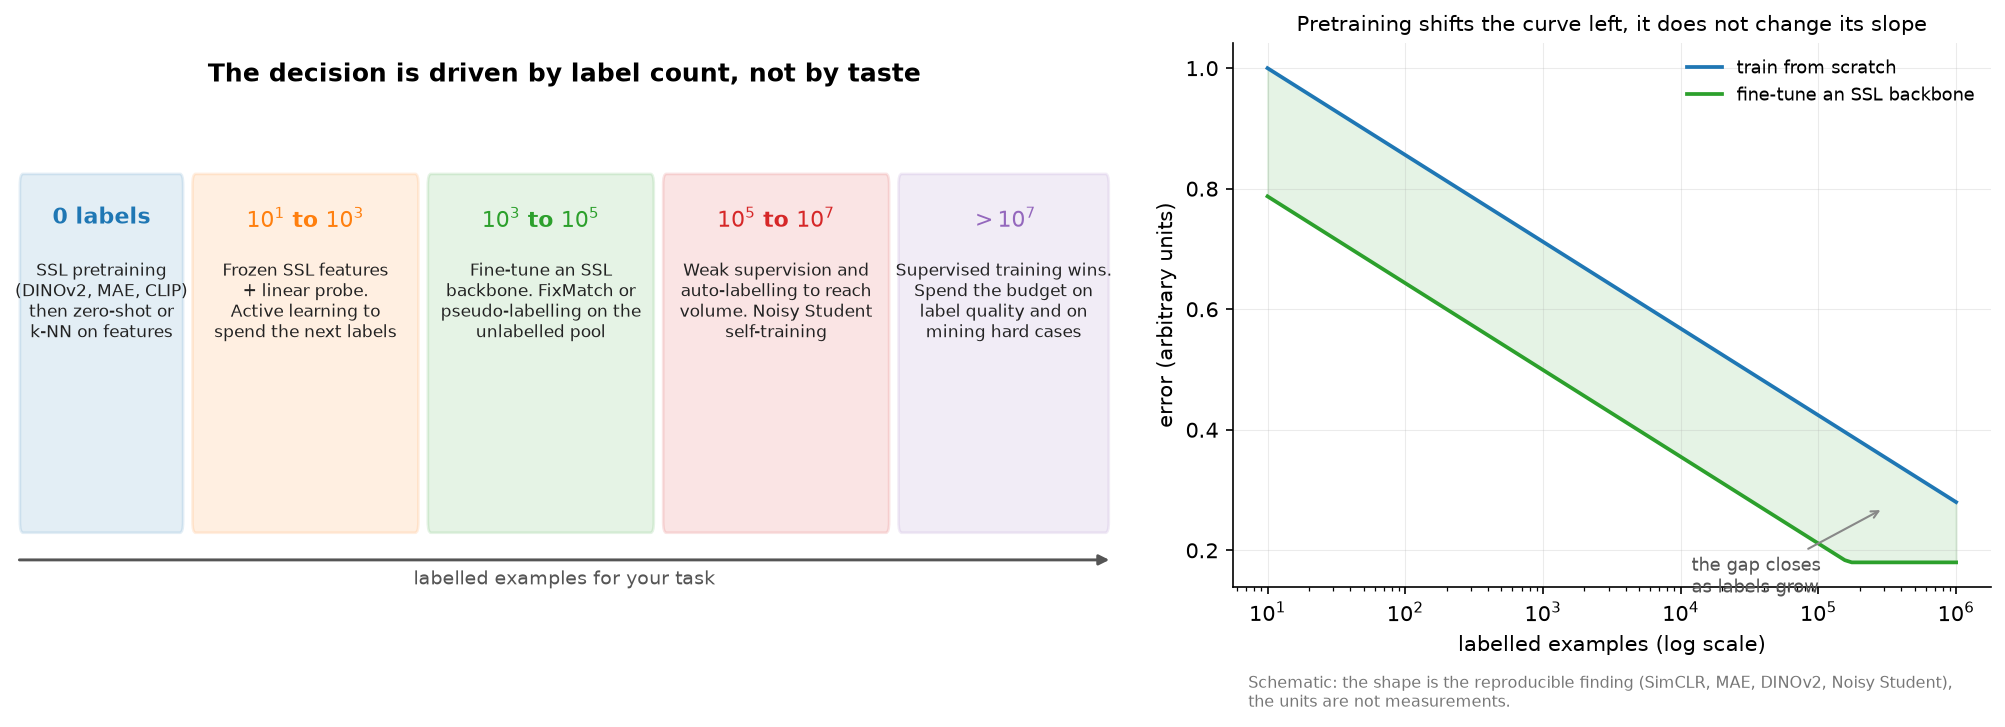
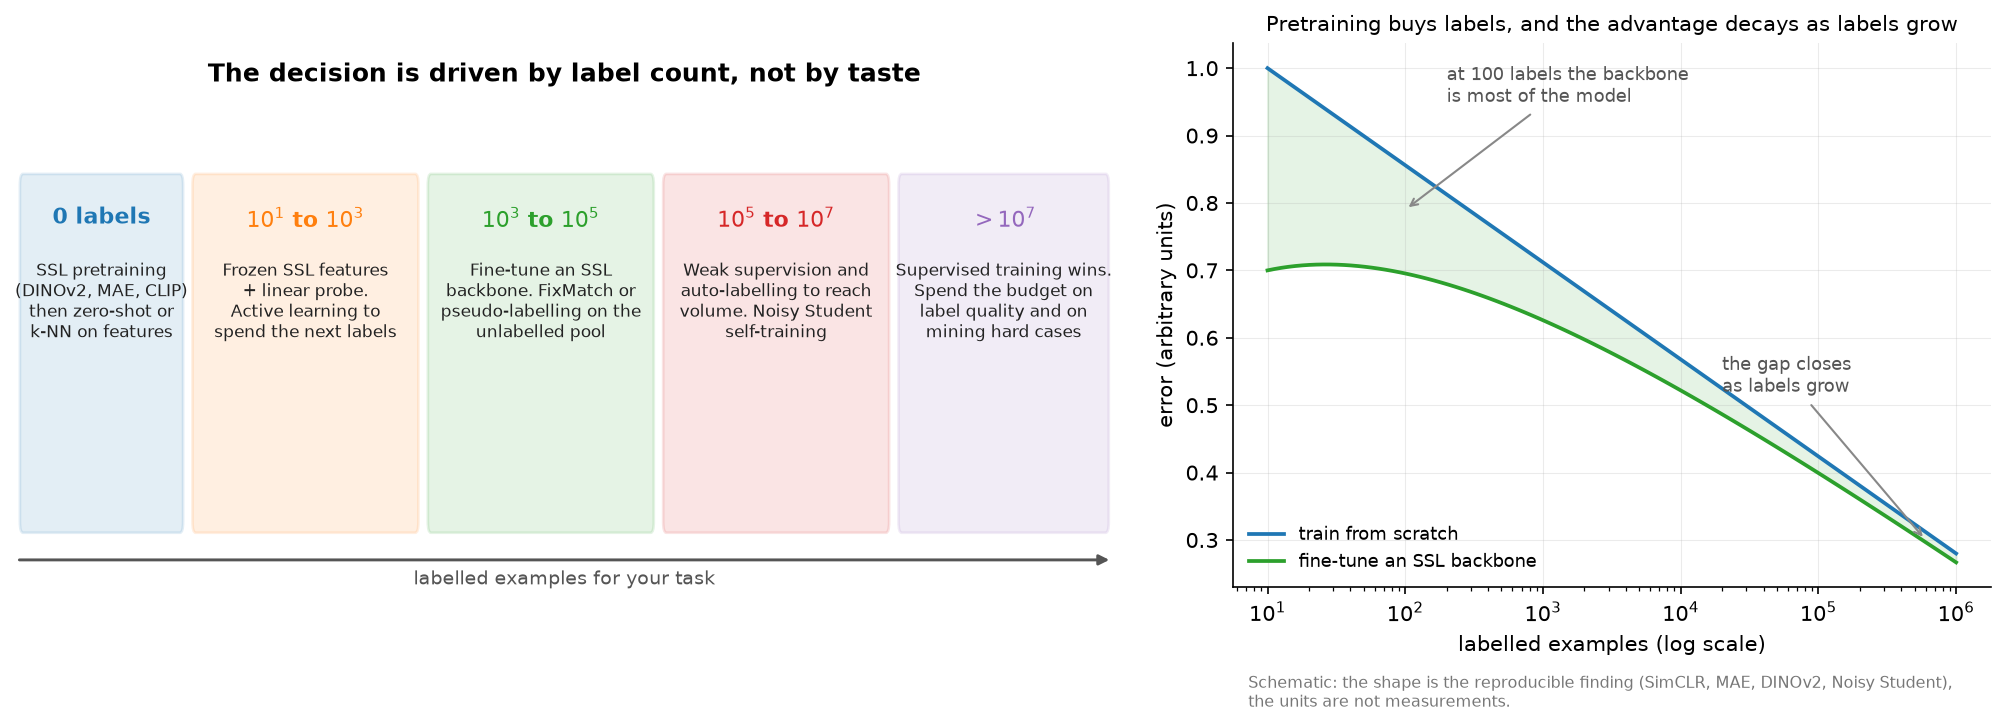
Add Part XVII ML system design, including novel-object 3D detection
Fifteen chapters with the Hello-Interview mock framing, per-decision interview
scripts, and the flagship crosswalk chapter built from the reader's own research.

Claude-Session: https://claude.ai/code/session_015H27xcFqfnuEV6DfXzrQek

diff --git a/figures/part10_label_budget.py b/figures/part10_label_budget.py
@@ -45,17 +45,20 @@ def main() -> None:
 
     # right panel: the shape of the curve everyone is trying to move
     n = np.logspace(1, 6, 100)
-    sup = 1.0 - 0.72 * (np.log10(n) - 1) / 5
-    ssl = 1.0 - 0.72 * (np.log10(n * 30) - 1) / 5
-    ssl = np.clip(ssl, 0.18, 1.0)
+    sup = 1.0 - 0.72 * (np.log10(n) - 1) / 5          # error falls with log(labels)
+    gap = 0.30 * np.exp(-(np.log10(n) - 1) / 1.6)     # the pretraining advantage decays with labels
+    ssl = sup - gap
     ax2.plot(n, sup, color=colors[0], linewidth=1.8, label="train from scratch")
     ax2.plot(n, ssl, color=colors[2], linewidth=1.8, label="fine-tune an SSL backbone")
     ax2.fill_between(n, ssl, sup, color=colors[2], alpha=0.12)
     ax2.set_xscale("log")
     ax2.set_xlabel("labelled examples (log scale)")
     ax2.set_ylabel("error (arbitrary units)")
-    ax2.set_title("Pretraining shifts the curve left, it does not change its slope", fontsize=10)
-    ax2.annotate("the gap closes\nas labels grow", xy=(3e5, 0.27), xytext=(1.2e4, 0.13),
+    ax2.set_title("Pretraining buys labels, and the advantage decays as labels grow", fontsize=10)
+    ax2.annotate("at 100 labels the backbone\nis most of the model", xy=(1e2, 0.79), xytext=(2e2, 0.95),
+                 fontsize=8.5, color="#555555",
+                 arrowprops=dict(arrowstyle="->", color="#888888", linewidth=1.0))
+    ax2.annotate("the gap closes\nas labels grow", xy=(6e5, 0.30), xytext=(2e4, 0.52),
                  fontsize=8.5, color="#555555",
                  arrowprops=dict(arrowstyle="->", color="#888888", linewidth=1.0))
     ax2.legend(fontsize=8.5, frameon=False)

diff --git a/citations-todo/part18-company-deep-dives.md b/citations-todo/part18-company-deep-dives.md
@@ -102,3 +102,41 @@ verify each one, add the link to the chapter, and tick the box.
 - [x] docs/part18-company-deep-dives/stripe-fintech.md | Coinbase, engineering writing on risk, fraud and account-takeover defence; model internals are not published
 - [x] docs/part18-company-deep-dives/stripe-fintech.md | Dal Pozzolo et al., "Credit Card Fraud Detection: A Realistic Modeling and a Novel Learning Strategy", IEEE Transactions on Neural Networks and Learning Systems, 2018 (delayed labels and verification latency)
 - [x] docs/part18-company-deep-dives/stripe-fintech.md | Dal Pozzolo et al., "Calibrating Probability with Undersampling for Unbalanced Classification", IEEE Symposium Series on Computational Intelligence, 2015
+
+## Notes from the 2026-09-17 pass
+
+All 97 lines are now resolved. Three lines are marked PARTIAL or carry a note
+because one item inside a multi-source line could not be resolved:
+
+* `airbnb.md` "Categorizing Listing Photos at Airbnb" (2018): no URL found in search
+  results. The chapter keeps it as title-and-year alongside the linked 2019, 2020,
+  2022 and 2023 posts.
+* `amazon.md` Amazon Bedrock documentation: the Nova announcement is linked; the
+  Bedrock docs root was not confirmed.
+* `apple.md` Live Text / Visual Look Up supported languages and categories: the
+  Vision framework and text-recognition pages are linked, but Apple publishes the
+  feature's language and category coverage only in user-facing documentation, and
+  no single developer page for it was found.
+* `netflix-spotify.md` "Foundation Model for Personalized Recommendation" (2025):
+  marked UNVERIFIABLE. Two searches returned only aggregators and third-party
+  write-ups, never the canonical netflixtechblog.com post URL.
+
+Claims corrected in the chapters during this pass:
+
+* `uber-doordash.md`: "Experimentation in a Ridesharing Marketplace" (2018) is a
+  **Lyft** Engineering series by Nicholas Chamandy and Adam Greenhall, not an Uber
+  post. The chapter attributed it to Uber in four places. It now cites Lyft for the
+  network-interference argument and Uber's own "Under the Hood of Uber's
+  Experimentation Platform" (2018) for the platform internals.
+* `uber-doordash.md`: DoorDash's "Things Not Strings" was published in **December
+  2020**, not 2022. Corrected in three places.
+* `pinterest.md`: the Homefeed realtime-actions engineering post is from **November
+  2022**, not 2023. Corrected in two places.
+* `netflix-spotify.md`: Gomez-Uribe & Hunt, ACM TMIS 6(4) Article 13, is dated
+  **December 2015**, not 2016.
+* `airbnb.md`: the Experiment Reporting Framework post is from **2014**; the 2017
+  post is "Scaling Airbnb's Experimentation Platform". "Building Airbnb Categories
+  with ML and Human-in-the-Loop" is **2023**, not 2022.
+* `amazon.md`: the wake-word line was attributed to "Soltau et al." The Amazon
+  Science wake-word publications found in search have different authors, so the
+  attribution was dropped and the papers are cited by title.
